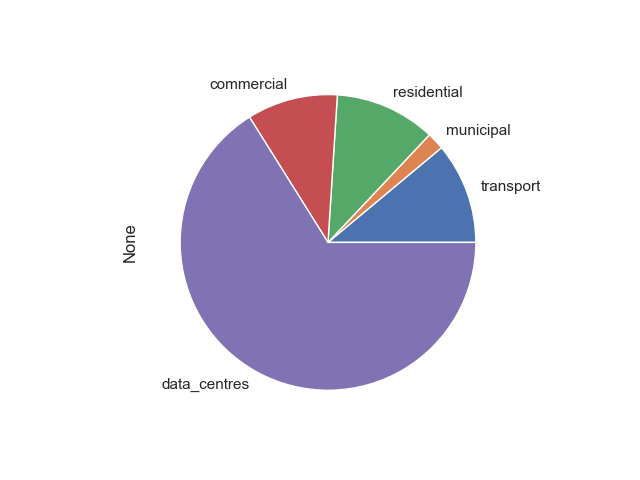
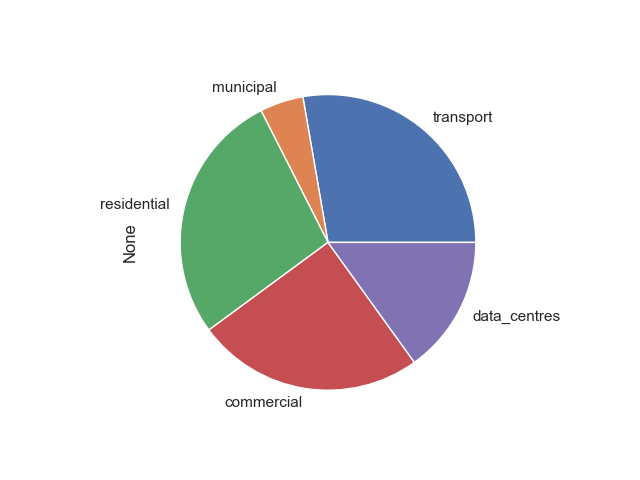
Remove extra zero from Data Centre Demand
Massively distorts the pie charts against data centres!  In reality
they are a much smaller load...

Changed region(s): [[0.1562, 0.1562, 0.8125, 0.875], [0.75, 0.625, 0.875, 0.6875], [0.75, 0.375, 0.8438, 0.4062]]

diff --git a/all-of-dublin-stats/pipeline.py b/all-of-dublin-stats/pipeline.py
@@ -75,8 +75,8 @@ with Flow("Extract infrastructure small area line lengths") as flow:
     gas_mwh_to_tco2 = 0.2047
 
     # from Eirgrid 2020 Tomorrow's Energy Scenarios
-    data_centre_mwh = 32500000
-    data_centre_tco2 = 10541700
+    data_centre_mwh = 3.25e6
+    data_centre_tco2 = data_centre_mwh * electricity_mwh_to_tco2
 
     # adapted from NTA's 2021 Model
     dart_mwh = 24377.70008318234
